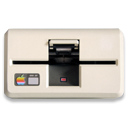
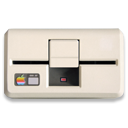
Implemented daisy chain device removal

Changed region(s): [[0.3438, 0.3125, 0.625, 0.5312]]

diff --git a/trunk/libemulation/Core/OEDocument.cpp b/trunk/libemulation/Core/OEDocument.cpp
@@ -195,9 +195,9 @@ OEHeaderInfo OEDocument::getHeaderInfo()
 	return headerInfo;
 }
 
-OEPortsInfo OEDocument::getPortsInfo()
+OEPortInfos OEDocument::getPortInfos()
 {
-	OEPortsInfo portsInfo;
+	OEPortInfos portsInfo;
 	
 	if (doc)
     {
@@ -225,10 +225,10 @@ OEPortsInfo OEDocument::getPortsInfo()
 	return portsInfo;
 }
 
-OEConnectorsInfo OEDocument::getFreeConnectorsInfo()
+OEConnectorInfos OEDocument::getFreeConnectorInfos()
 {
     OEIds portRefs;
-	OEConnectorsInfo freeConnectorsInfo;
+	OEConnectorInfos freeConnectorInfos;
 	
 	if (doc)
     {
@@ -248,7 +248,7 @@ OEConnectorsInfo OEDocument::getFreeConnectorsInfo()
                 OEConnectorInfo connectorInfo;
                 connectorInfo.id = id;
                 connectorInfo.type = type;
-                freeConnectorsInfo.push_back(connectorInfo);
+                freeConnectorInfos.push_back(connectorInfo);
             }
         }
     }
@@ -257,19 +257,19 @@ OEConnectorsInfo OEDocument::getFreeConnectorsInfo()
          i != portRefs.end();
          i++)
     {
-        for (OEConnectorsInfo::iterator j = freeConnectorsInfo.begin();
-             j != freeConnectorsInfo.end();
+        for (OEConnectorInfos::iterator j = freeConnectorInfos.begin();
+             j != freeConnectorInfos.end();
              j++)
         {
             if (*i == j->id)
             {
-                freeConnectorsInfo.erase(j);
+                freeConnectorInfos.erase(j);
                 break;
             }
         }
     }
     
-	return freeConnectorsInfo;
+	return freeConnectorInfos;
 }
 
 bool OEDocument::addDocument(string path, OEIdMap connections)
@@ -316,7 +316,7 @@ bool OEDocument::addDocument(string path, OEIdMap connections)
     // Construct new document
     constructDocument(document.getXMLDoc());
     
-    // Init port inlets
+    // Configure port inlets
     configureInlets(portInletMap);
     
     return true;
@@ -328,7 +328,7 @@ bool OEDocument::removeDevice(string deviceId)
 		return false;
 	
     // Get connected devices
-    OEIds connectedDevices = getConnectedDevices(deviceId);
+    OEPortInfos portInfos = getPortInfos();
     
     // Deconfigure device refs
     deconfigureDevice(deviceId);
@@ -342,11 +342,54 @@ bool OEDocument::removeDevice(string deviceId)
     // Delete device items
     deleteDevice(deviceId);
     
-    // Remove connected devices
-    for (vector<string>::iterator i = connectedDevices.begin();
-         i != connectedDevices.end();
+    // Analyze ports and connectors
+    OEPortInfos ports;
+    OEPortInfos connectors;
+    for (OEPortInfos::iterator i = portInfos.begin();
+         i != portInfos.end();
          i++)
-        removeDevice(*i);
+    {
+        OEPortInfo port = *i;
+        
+        if (getDeviceId(port.ref) == deviceId)
+            ports.push_back(port);
+        else if (getDeviceId(port.id) == deviceId)
+            connectors.push_back(port);
+    }
+    
+    // Disconnect daisy chain devices?
+    if ((ports.size() == 1) &&
+        (connectors.size() == 1) &&
+        (ports[0].type == connectors[0].type))
+    {
+        // Build connections
+        OEIdMap connections;
+        connections[ports[0].id] = connectors[0].ref;
+        
+        // Connect ports and connector inlets
+        OEInletMap portInletMap = getInlets(doc, connections, "port");
+        OEInletMap connectorInletMap = getInlets(doc, connections, "connector");
+        
+        connectPorts(doc, connections);
+        connectInlets(doc, portInletMap);
+        connectInlets(doc, connectorInletMap);
+        
+        // Init port inlets
+        configureInlets(portInletMap);
+    }
+    else
+    {
+        // Remove connected devices
+        for (OEPortInfos::iterator i = portInfos.begin();
+             i != portInfos.end();
+             i++)
+        {
+            OEPortInfo port = *i;
+            if ((getDeviceId(port.id) == deviceId) &&
+                (port.ref != ""))
+                removeDevice(getDeviceId(port.ref));
+        }
+    }
     
     return true;
 }
@@ -677,37 +720,12 @@ bool OEDocument::insertInto(xmlNodePtr dest)
     return true;
 }
 
-// Get connected devices
-OEIds OEDocument::getConnectedDevices(string deviceId)
-{
-    OEIds connectedDevices;
-    
-    xmlNodePtr rootNode = xmlDocGetRootElement(doc);
-    
-    for(xmlNodePtr node = rootNode->children;
-        node;
-        node = node->next)
-    {
-        if (getNodeName(node) == "port")
-        {
-            string id = getNodeProperty(node, "id");
-            
-            if (getDeviceId(id) == deviceId)
-            {
-                string ref = getNodeProperty(node, "ref");
-                
-                if (ref != "")
-                    connectedDevices.push_back(getDeviceId(ref));
-            }
-        }
-    }
-    
-    return connectedDevices;
-}
-
 // Scan inlets
 void OEDocument::addInlets(OEInletMap& inletMap, string deviceId, xmlNodePtr children)
 {
+    if (deviceId == "")
+        return;
+    
     for(xmlNodePtr node = children;
         node;
         node = node->next)

diff --git a/trunk/macosx/EmulationItem.mm b/trunk/macosx/EmulationItem.mm
@@ -51,14 +51,14 @@
 		OEEmulation *emulation = (OEEmulation *)[theDocument emulation];
 		OEIds deviceIds = emulation->getDeviceIds();
         
-		OEPortsInfo portsInfo;
-		portsInfo = emulation->getPortsInfo();
+		OEPortInfos portInfos;
+		portInfos = emulation->getPortInfos();
         
 		// Create items connected on ports
         EmulationItem *systemGroupItem = [self getGroup:@"system"];
         
-        for (OEPortsInfo::iterator i = portsInfo.begin();
-             i != portsInfo.end();
+        for (OEPortInfos::iterator i = portInfos.begin();
+             i != portInfos.end();
              i++)
         {
             OEPortInfo port = *i;
@@ -644,13 +644,13 @@
 	if (!oeDocument.isOpen())
 		return NO;
 	
-	OEConnectorsInfo connectorsInfo = oeDocument.getFreeConnectorsInfo();
+	OEConnectorInfos connectorInfos = oeDocument.getFreeConnectorInfos();
 	
 	oeDocument.close();
 	
-	if (connectorsInfo.size() == 1)
+	if (connectorInfos.size() == 1)
 	{
-        OEConnectorsInfo::iterator i = connectorsInfo.begin();
+        OEConnectorInfos::iterator i = connectorInfos.begin();
 		
 		map<string, string> idMap;
 		idMap[getCPPString(portId)] = i->id;

diff --git a/trunk/libemulation/Core/OEDocument.h b/trunk/libemulation/Core/OEDocument.h
@@ -43,8 +43,8 @@ typedef struct
 	string type;
 } OEConnectorInfo;
 
-typedef vector<OEPortInfo> OEPortsInfo;
-typedef vector<OEConnectorInfo> OEConnectorsInfo;
+typedef vector<OEPortInfo> OEPortInfos;
+typedef vector<OEConnectorInfo> OEConnectorInfos;
 
 typedef vector<string> OEIds;
 typedef map<string, string> OEIdMap;
@@ -62,8 +62,8 @@ public:
 	void close();
 	
 	OEHeaderInfo getHeaderInfo();
-	OEPortsInfo getPortsInfo();
-	OEConnectorsInfo getFreeConnectorsInfo();
+	OEPortInfos getPortInfos();
+	OEConnectorInfos getFreeConnectorInfos();
 	
     bool addDocument(string path, OEIdMap connections);
     bool removeDevice(string deviceId);
@@ -105,7 +105,6 @@ private:
     string followDeviceChain(string deviceId, vector<string>& visitedIds);
     xmlNodePtr getInsertionNode(string connectorId);
     bool insertInto(xmlNodePtr dest);
-    OEIds getConnectedDevices(string deviceId);
     void addInlets(OEInletMap& inletMap, string deviceId, xmlNodePtr children);
     OEInletMap getInlets(xmlDocPtr doc, OEIdMap& connections, string nodeType);
     void connectPorts(xmlDocPtr doc, OEIdMap& connections);

diff --git a/trunk/macosx/LibraryItem.mm b/trunk/macosx/LibraryItem.mm
@@ -64,7 +64,7 @@
 		return;
 	
     NSString *imagePath = getNSString(oeDocument.getHeaderInfo().image);
-	OEConnectorsInfo connectorsInfo = oeDocument.getFreeConnectorsInfo();
+	OEConnectorInfos connectorInfos = oeDocument.getFreeConnectorInfos();
 	
 	oeDocument.close();
     
@@ -74,9 +74,9 @@
     image = [[NSImage alloc] initByReferencingFile:imagePath];
     
     // Read connector type
-    if (connectorsInfo.size() == 1)
+    if (connectorInfos.size() == 1)
     {
-        OEConnectorsInfo::iterator i = connectorsInfo.begin();
+        OEConnectorInfos::iterator i = connectorInfos.begin();
         type = [getNSString(i->type) retain];
     }
     
